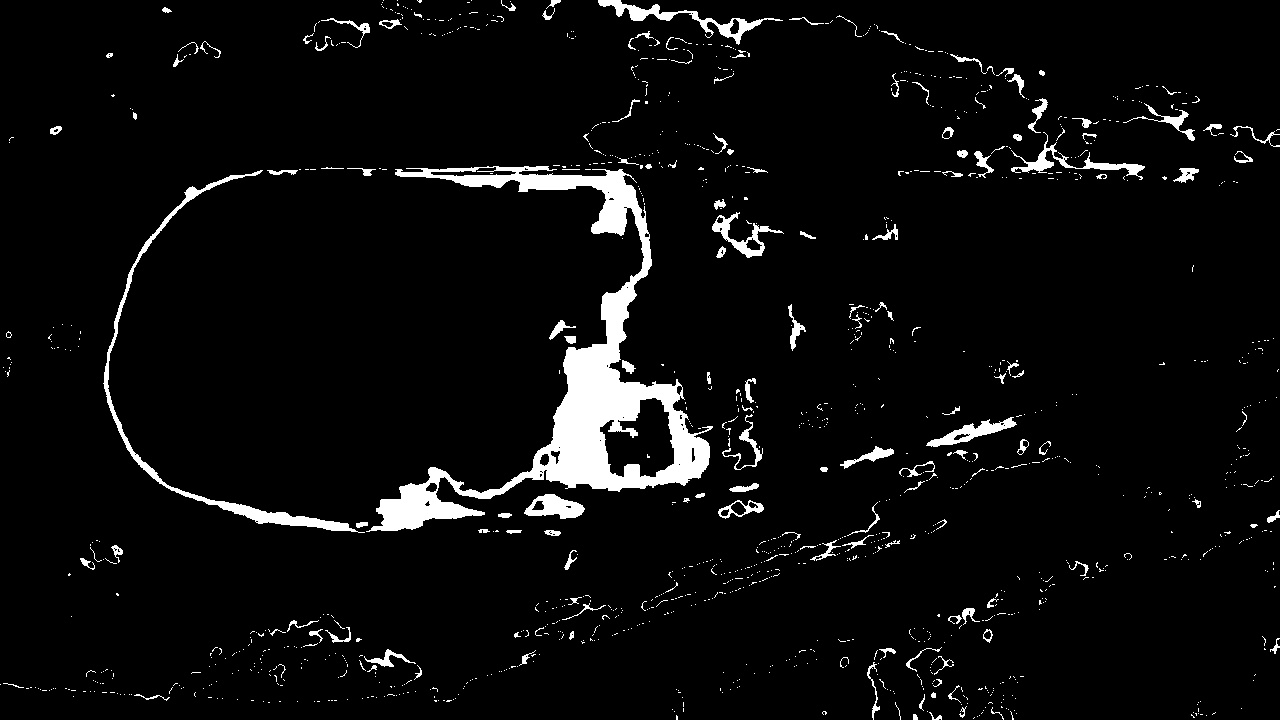
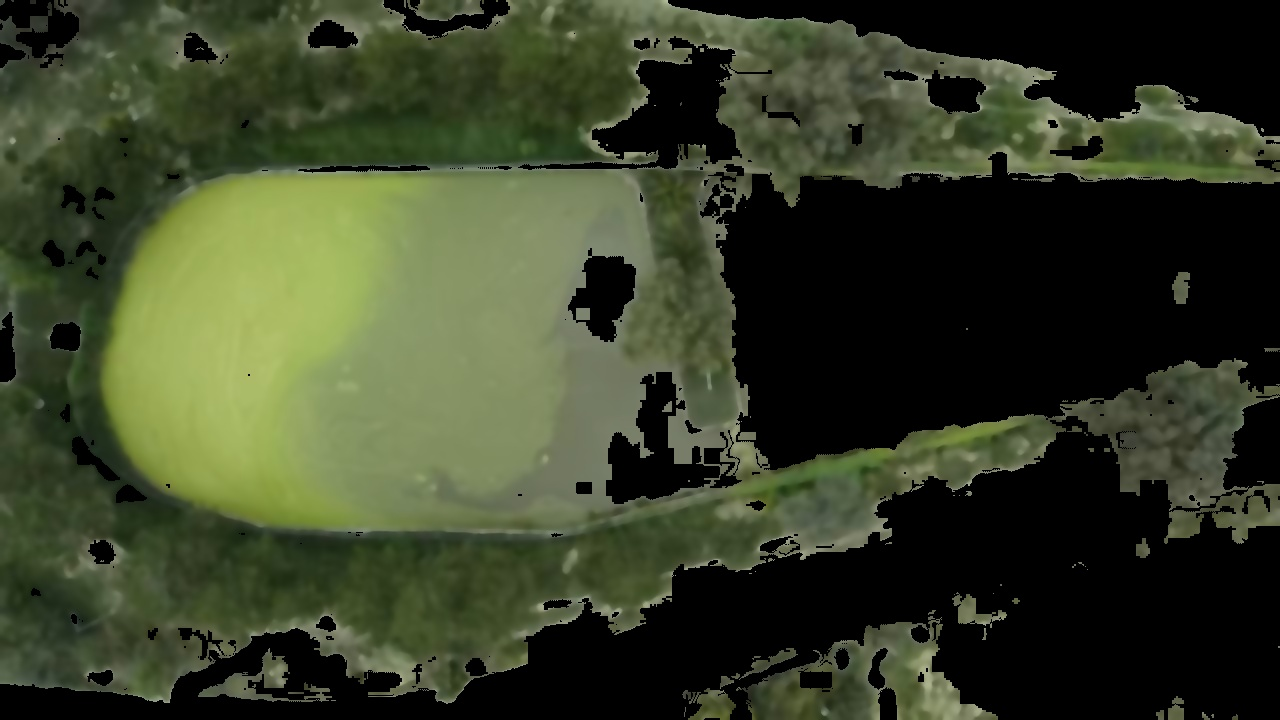
Prueba de seleccion HSV

diff --git a/Back-End/Filtrado de imagen.py b/Back-End/Filtrado de imagen.py
@@ -17,23 +17,15 @@ if ruta_imagen:
 
     if imagen is not None:
         # Aplicar el filtro de desenfoque gaussiano
-        imagen_G = cv2.GaussianBlur(imagen, (5, 5), 0)
-        imagen_MB= cv2.medianBlur(imagen_G, 5)
-        imagen_B = cv2.bilateralFilter(imagen_MB ,d=9, sigmaColor=75, sigmaSpace=75)
-        imagen_G2 = cv2.GaussianBlur(imagen_MB, (5, 5), 0)
-        imagen_MB2= cv2.medianBlur(imagen_G2, 5)
-        imagen_B2 = cv2.bilateralFilter(imagen_MB2 ,d=9, sigmaColor=75, sigmaSpace=75)
+        for i in range(5):
+            imagen_G = cv2.GaussianBlur(imagen, (5, 5), 0)
+            imagen_MB = cv2.medianBlur(imagen_G, 5)
+            imagen_B = cv2.bilateralFilter(imagen_MB, d=9, sigmaColor=75, sigmaSpace=75)
         
 
         # Crear ventanas con un tamaño personalizado
         cv2.namedWindow('Imagen original', cv2.WINDOW_NORMAL)
         cv2.resizeWindow('Imagen original', 600, 400)  # Cambia las dimensiones a tu gusto
-        
-       # cv2.namedWindow('Filtro 1 (GaussianBlur)', cv2.WINDOW_NORMAL)
-       # cv2.resizeWindow('Filtro 1 (GaussianBlur)', 600, 400)
-        
-       # cv2.namedWindow('Filtro 2 (MedianBlur)', cv2.WINDOW_NORMAL)
-       # cv2.resizeWindow('Filtro 2 (MedianBlur)', 600, 400)
 
         cv2.namedWindow('Filtro 3(Bilateral)', cv2.WINDOW_NORMAL)
         cv2.resizeWindow('Filtro 3(Bilateral)', 600, 400)
@@ -42,7 +34,7 @@ if ruta_imagen:
         cv2.imshow('Imagen original', imagen)
        # cv2.imshow('Filtro 1 (GaussianBlur)', imagen_G)
         #cv2.imshow('Filtro 2 (MedianBlur)', imagen_MB)
-        cv2.imshow('Filtro 3(Bilateral)',imagen_B2)
+        cv2.imshow('Filtro 3(Bilateral)',imagen_B)
         cv2.imwrite('C:/Users/jesus/Documents/TT2/Imagenes/ImagenFiltrada.jpg', imagen_B)
 
 

diff --git a/Back-End/Deteccion de color.py b/Back-End/Deteccion de color.py
@@ -2,13 +2,36 @@ import cv2
 import numpy as np
 
 img = cv2.imread("C:/Users/jesus/Documents/TT2/Imagenes/ImagenFiltrada.jpg")
-cv2.imshow('Original',img)
 
-umbral_bajo = np.array([0,120,0])
-umbral_alto = np.array([120,255,120])
-mask_verde = cv2.inRange(img, umbral_bajo, umbral_alto)
-cv2.imshow('Seleccion',mask_verde)
-cv2.imwrite('C:/Users/jesus/Documents/TT2/Imagenes/Seleccion.jpg', mask_verde)
+img_hsv = cv2.cvtColor(img, cv2.COLOR_BGR2HSV)
+
+# Rango para el color verde del lago
+umbral_bajo_verde = np.array([35, 40, 40])   # Ajusta según el tono, saturación y valor
+umbral_alto_verde = np.array([85, 255, 255]) # Ajusta según el tono, saturación y valor
+
+# Rango para el color marrón del lago
+umbral_bajo_marron = np.array([10, 100, 20])  # Ajusta según el tono, saturación y valor
+umbral_alto_marron = np.array([20, 255, 200]) # Ajusta según el tono, saturación y valor
+
+# Máscaras para los colores del lago
+mask_verde = cv2.inRange(img_hsv, umbral_bajo_verde, umbral_alto_verde)
+mask_marron = cv2.inRange(img_hsv, umbral_bajo_marron, umbral_alto_marron)
+
+# Combinar ambas máscaras
+mask_total = cv2.bitwise_or(mask_verde, mask_marron)
+
+resultado = cv2.bitwise_and(img, img, mask=mask_total)
+
+# Crear ventanas con un tamaño personalizado
+cv2.namedWindow('Original', cv2.WINDOW_NORMAL)
+cv2.resizeWindow('Original', 600, 400)  # Cambia las dimensiones a tu gusto
+
+cv2.namedWindow('Resultado', cv2.WINDOW_NORMAL)
+cv2.resizeWindow('Resultado', 600, 400)
+
+cv2.imshow('Original',img)
+cv2.imshow('Resultado',resultado)
+cv2.imwrite('C:/Users/jesus/Documents/TT2/Imagenes/Seleccion.jpg', resultado)
 
 
 cv2.waitKey(0)
